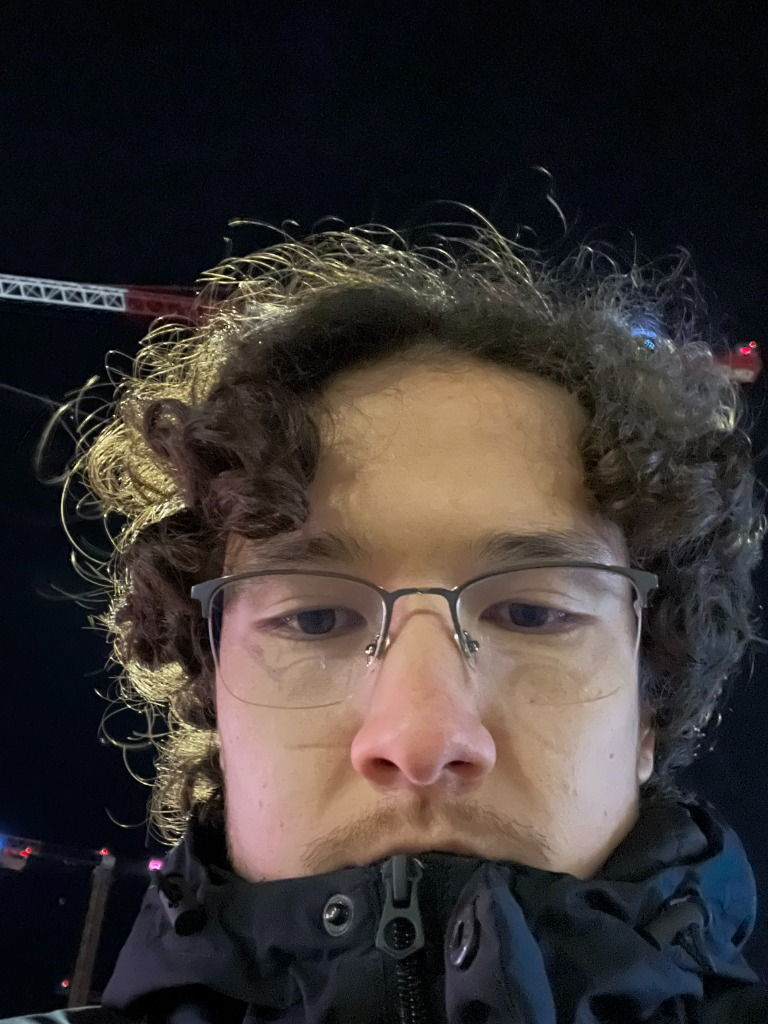
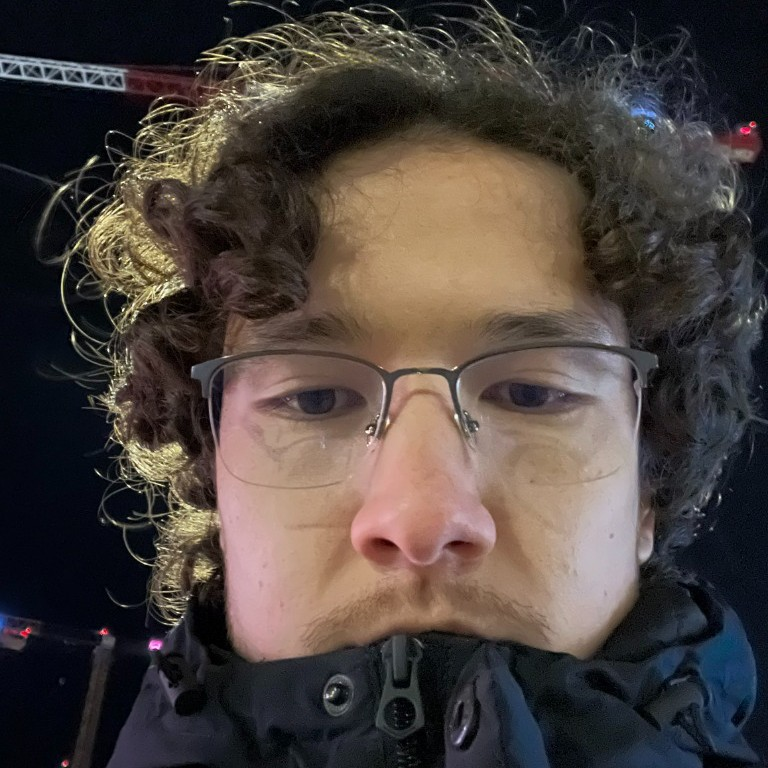
fix(founder): crop portrait to 1:1 square centered on full face (hair, eyes, nose, chin)

diff --git a/styles.css b/styles.css
@@ -744,7 +744,7 @@ a {
   height: 100%;
   border-radius: 50%;
   object-fit: cover;
-  object-position: center 15%;
+  object-position: center center;
   display: block;
 }
 
